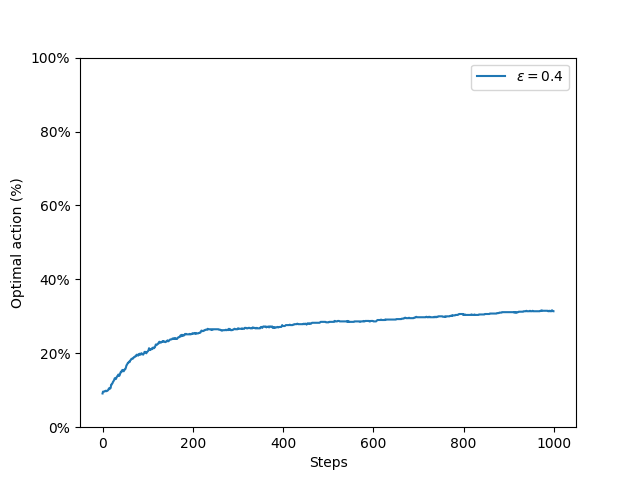
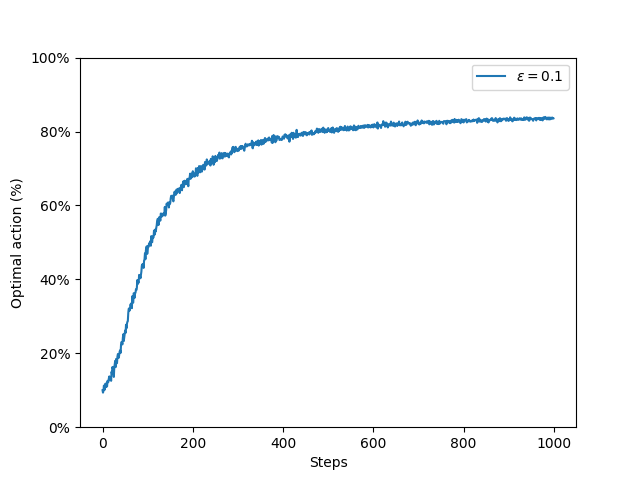
feat: Stochastic Gradient Agent

diff --git a/agents/SGAgent.py b/agents/SGAgent.py
@@ -2,28 +2,28 @@ import numpy as np
 from agents.BaseAgent import BaseAgent
 
 class SGAgent(BaseAgent):
-    def __init__(self, num_of_actions, alpha) -> int:
+    def __init__(self, num_of_actions, alpha):
         self.num_of_actions = num_of_actions
-        self.baseline = 0
+        self.alpha = alpha
         self.H = np.zeros(num_of_actions)
-        self.__alpha = alpha
         self.__policy = self.update_policy()
-
-    def update_policy(self) -> np.ndarray:
-        C = np.max(self.H)
-        policy =  np.exp(self.H - C) / np.sum(np.exp(self.H - C))
-        return policy
+        self.baseline = 0
+    
 
     def get_action(self) -> int:
-        return np.argmax(self.__policy)
-
+        return np.random.choice(range(self.num_of_actions), p=self.__policy)
+    
+    def update_policy(self)-> np.ndarray:
+        C = np.max(self.H)
+        return np.exp(self.H - C) / np.sum(np.exp(self.H - C))
+    
+    def update_baseline(self, reward, step) -> None:
+        self.baseline +=  (reward - self.baseline) / step
+    
     def learn(self, action, reward) -> None:
         for a in range(self.num_of_actions):
             if a == action:
-                self.H[a] += self.__alpha * (reward - self.baseline) * (1 - self.__policy[a])
+                self.H[a] += reward + self.alpha * (reward - self.baseline) * (1 - self.__policy[a])
             else:
-                self.H[a] += self.__alpha * (reward - self.baseline) * -1 * self.__policy[a]
-            self.__policy = self.update_policy()
-
-    def update_baseline(self, reward, step) -> None:
-        self.baseline += (reward - self.baseline) / step
+                self.H[a] += reward + self.alpha * (reward - self.baseline) * (0 - self.__policy[a])
+        self.__policy = self.update_policy()

diff --git a/Main.py b/Main.py
@@ -40,7 +40,7 @@ def plot_optimal_action_percentage(experiment_results: list[dict], filename: str
 
 if __name__ == "__main__":
 
-    NUM_OF_RUNS = 800
+    NUM_OF_RUNS = 2000
     NUM_OF_STEPS = 1000
     """
     PREFIX = "a)" # Assignment excercise prefix
@@ -68,14 +68,14 @@ if __name__ == "__main__":
     print("Plots saved in imgs folder")
     """
     results = BanditResults()
-    alpha = 0.4
+    alpha = 0.1
     use_baseline = True
     experiments_results = []
     for run_id in range(NUM_OF_RUNS):
-        print(f"Run {run_id+1}/{NUM_OF_RUNS}")
-        algorithm = GradientBandit(seed=run_id, alpha=alpha, use_baseline=use_baseline)
+        #print(f"Run {run_id+1}/{NUM_OF_RUNS}")
+        algorithm = GradientBandit(seed=run_id, alpha=alpha, use_baseline=use_baseline) 
         algorithm.run(NUM_OF_STEPS, results)
         results.save_current_run()
     experiments_results.append({"results": results, "params": [alpha]})
     plot_optimal_action_percentage(experiments_results, "f)"+" optimal_action_percentage")
-    print("Plots saved in imgs folder")
+    print("Plots saved to imgs folder")

diff --git a/algorithms/GradientBandit.py b/algorithms/GradientBandit.py
@@ -3,7 +3,7 @@ from BanditResults import BanditResults
 from agents.SGAgent import SGAgent
 
 class GradientBandit:
-    def __init__(self, seed: int, alpha: float, use_baseline: bool):
+    def __init__(self, seed: int, alpha: float, use_baseline: bool = False):
         self.bandit = BanditEnv(seed=seed, mean = 4.0)
         self.num_of_arms = self.bandit.action_space
         self.agent = SGAgent(num_of_actions=self.num_of_arms, alpha=alpha)
@@ -12,10 +12,11 @@ class GradientBandit:
 
     def run(self, num_of_steps: int, results: BanditResults) -> None:
         for step in range(num_of_steps):
+            #self.agent.update_policy()
             action = self.agent.get_action()
             reward = self.bandit.step(action)
             self.agent.learn(action, reward)
             if self.use_baseline:
-                self.agent.update_baseline(reward, step + 1)
+               self.agent.update_baseline(reward, step + 1)
             is_best_action = action == self.best_action
             results.add_result(reward, is_best_action)
